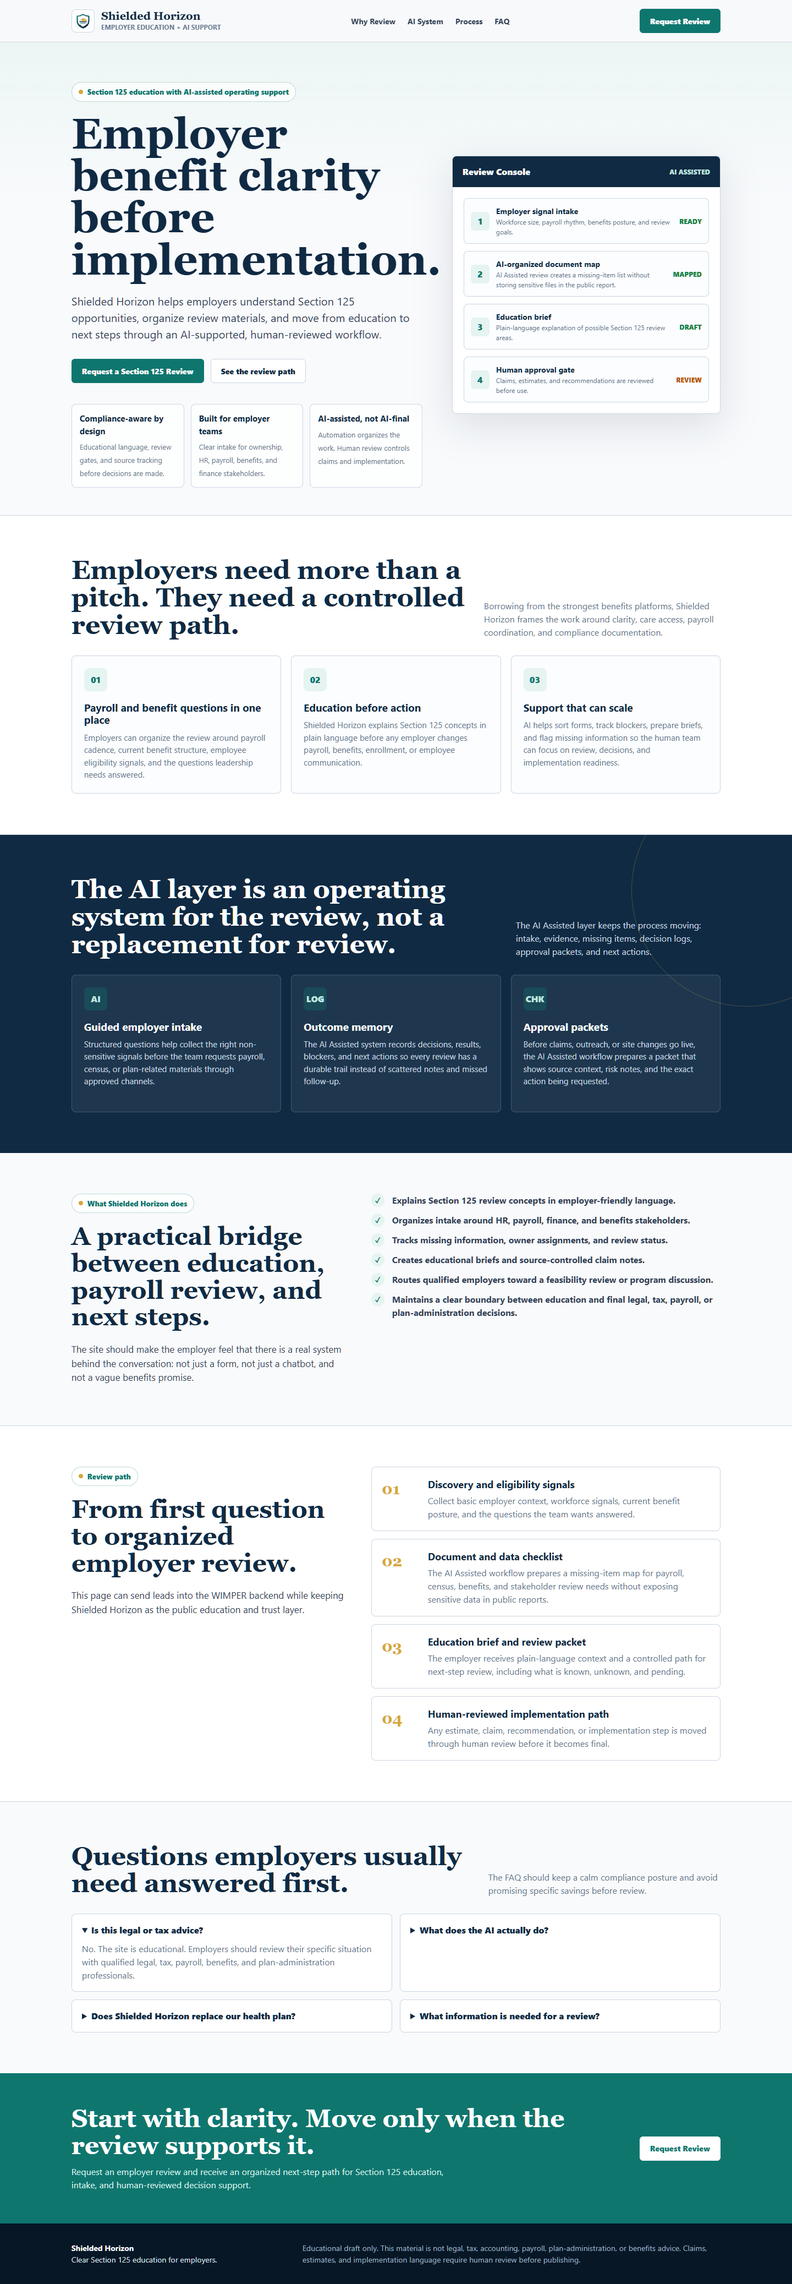
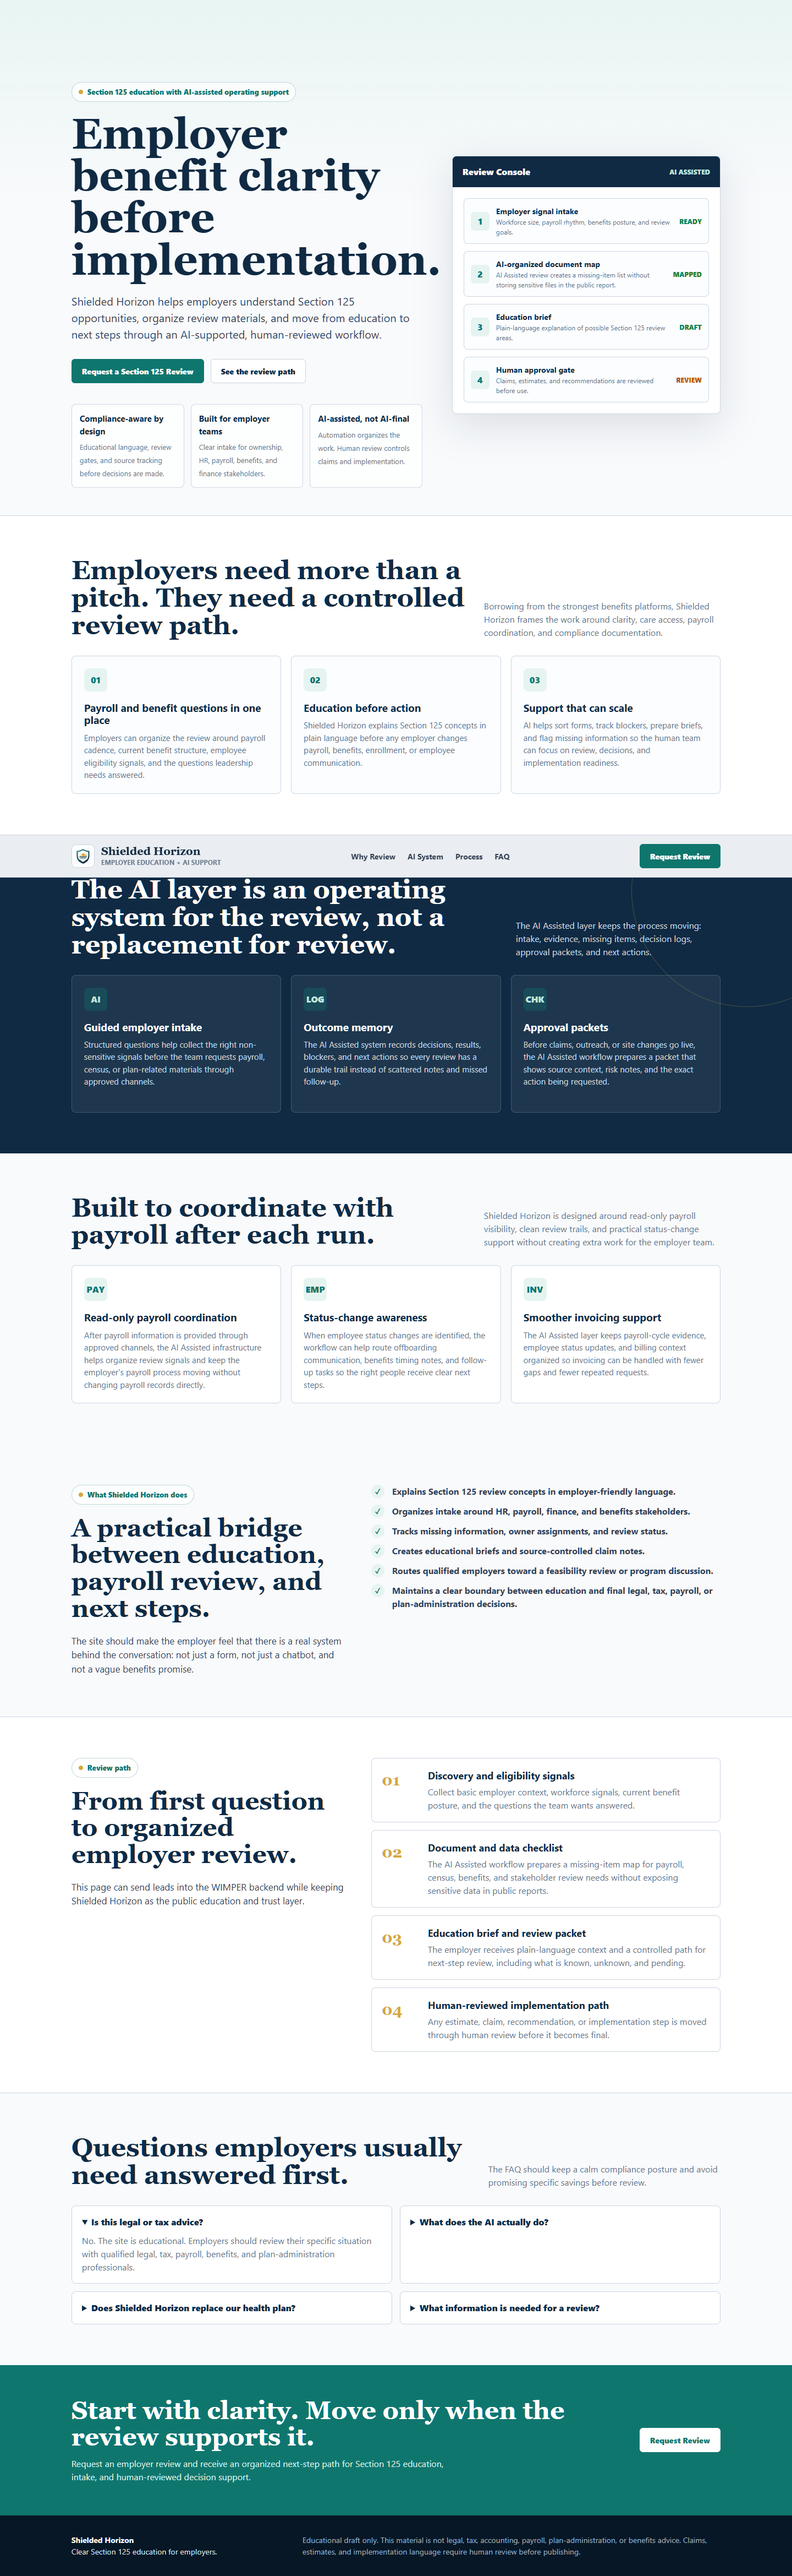
Add payroll coordination overview to Shielded Horizon backup

Changed region(s): [[0.0, 0.0, 1.0, 0.9947], [0.5625, 0.0622, 0.9062, 0.1865], [0.8125, 0.0, 0.9062, 0.0311]]

diff --git a/drafts/shielded-horizon-ai-site-2026-05-09/index.html b/drafts/shielded-horizon-ai-site-2026-05-09/index.html
@@ -745,6 +745,32 @@
       </section>
 
       <section>
+        <div class="inner">
+          <div class="section-top">
+            <h2>Built to coordinate with payroll after each run.</h2>
+            <p>Shielded Horizon is designed around read-only payroll visibility, clean review trails, and practical status-change support without creating extra work for the employer team.</p>
+          </div>
+          <div class="grid-3">
+            <article class="card">
+              <div class="icon">PAY</div>
+              <h3>Read-only payroll coordination</h3>
+              <p>After payroll information is provided through approved channels, the AI Assisted infrastructure helps organize review signals and keep the employer's payroll process moving without changing payroll records directly.</p>
+            </article>
+            <article class="card">
+              <div class="icon">EMP</div>
+              <h3>Status-change awareness</h3>
+              <p>When employee status changes are identified, the workflow can help route offboarding communication, benefits timing notes, and follow-up tasks so the right people receive clear next steps.</p>
+            </article>
+            <article class="card">
+              <div class="icon">INV</div>
+              <h3>Smoother invoicing support</h3>
+              <p>The AI Assisted layer keeps payroll-cycle evidence, employee status updates, and billing context organized so invoicing can be handled with fewer gaps and fewer repeated requests.</p>
+            </article>
+          </div>
+        </div>
+      </section>
+
+      <section>
         <div class="inner split">
           <div>
             <span class="eyebrow">What Shielded Horizon does</span>

diff --git a/drafts/shielded-horizon-ai-site-2026-05-09/copy-deck.md b/drafts/shielded-horizon-ai-site-2026-05-09/copy-deck.md
@@ -69,6 +69,28 @@ Approval packets:
 
 Before claims, outreach, or site changes go live, the AI Assisted workflow prepares a packet that shows source context, risk notes, and the exact action being requested.
 
+## Payroll Coordination Overview
+
+Headline:
+
+Built to coordinate with payroll after each run.
+
+Subhead:
+
+Shielded Horizon is designed around read-only payroll visibility, clean review trails, and practical status-change support without creating extra work for the employer team.
+
+Read-only payroll coordination:
+
+After payroll information is provided through approved channels, the AI Assisted infrastructure helps organize review signals and keep the employer's payroll process moving without changing payroll records directly.
+
+Status-change awareness:
+
+When employee status changes are identified, the workflow can help route offboarding communication, benefits timing notes, and follow-up tasks so the right people receive clear next steps.
+
+Smoother invoicing support:
+
+The AI Assisted layer keeps payroll-cycle evidence, employee status updates, and billing context organized so invoicing can be handled with fewer gaps and fewer repeated requests.
+
 ## Process
 
 1. Discovery and eligibility signals
